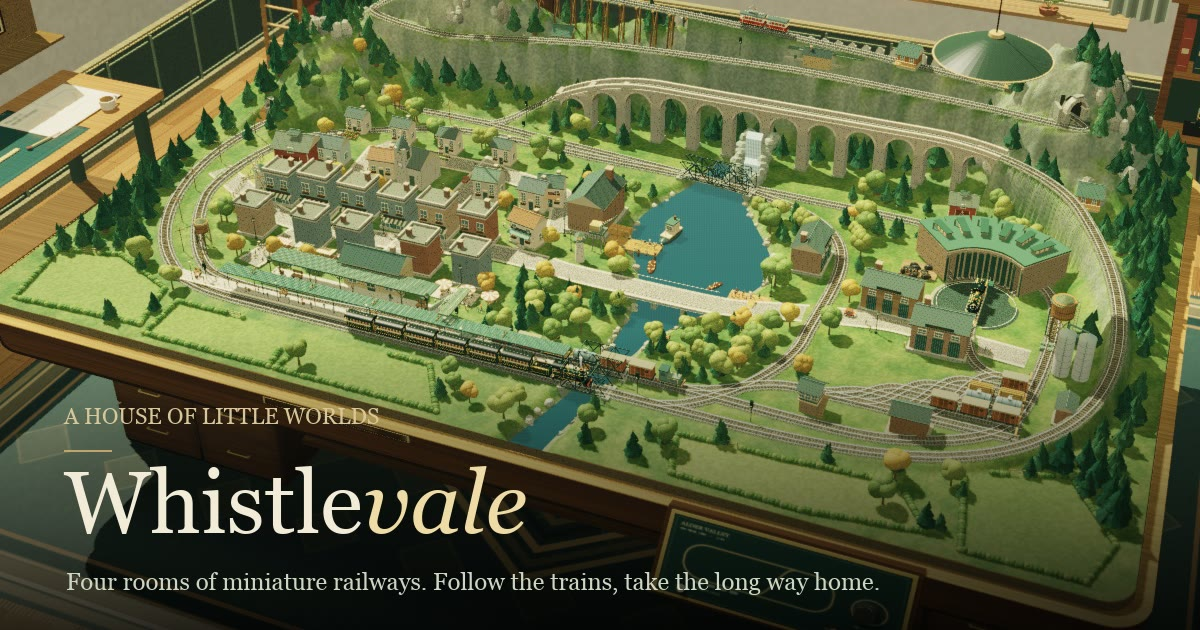
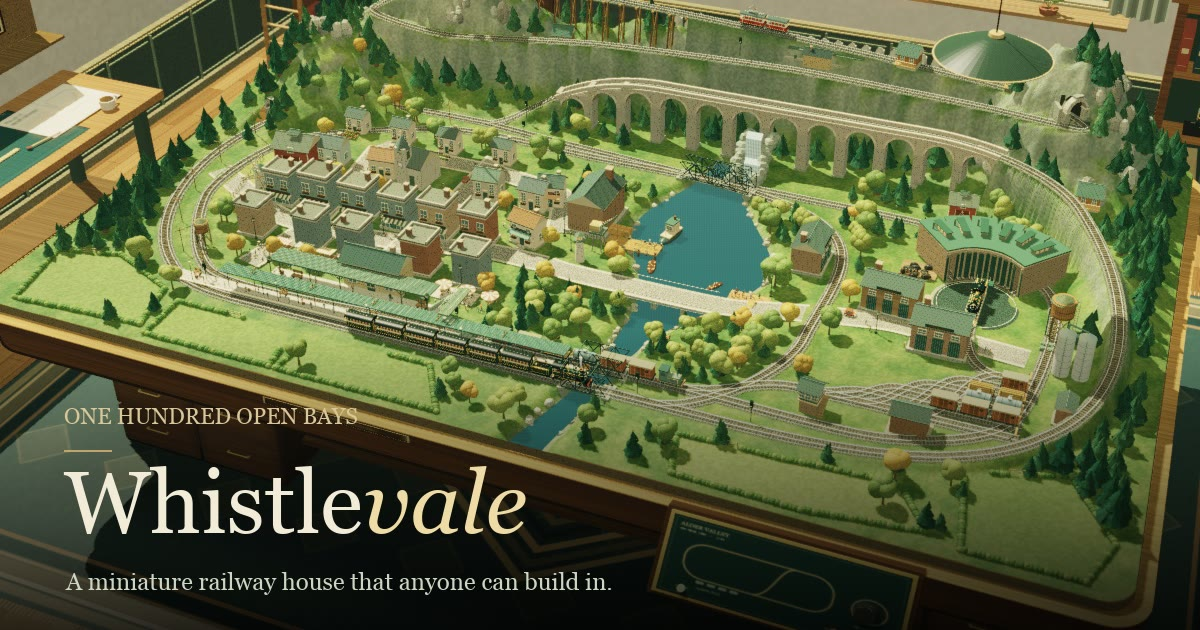
Brand it as a railway anyone can build in
The repository read as somewhere you visit. It is somewhere you build,
and nothing on the landing surfaces said so.

README now opens on the invitation rather than the tour: one hundred open
bays across seven galleries, the bay command, and what a contributor
actually gets — a credit they choose, a plaque, and a named stop on the
slow tour. The Open Workshop's own line carries it: it doesn't have to be
finished.

Both social cards are rebuilt around the same story. "Follow the trains,
take the long way home" was a lovely sentence for a place you look at.
"One hundred open bays / a miniature railway house that anyone can build
in" is the sentence for a place you join. github-social.jpg is sized 1280
x640 for GitHub's preview; social-card.jpg stays 1200x630 for Open Graph.

The page description follows, since a card and a description that
disagree is worse than either alone.

Claude-Session: https://claude.ai/code/session_01NPBWmM1LxMzBcb1a9u5ree

Changed region(s): [[0.0617, 0.9048, 0.74, 0.9349], [0.0617, 0.6333, 0.3083, 0.6937]]

diff --git a/index.html b/index.html
@@ -26,7 +26,7 @@
 @media(max-width:820px){.district-nav{top:128px;left:50%;transform:translateX(-50%);max-width:calc(100% - 28px);width:max-content;overflow:auto;padding:3px;gap:0;border-radius:17px;scrollbar-width:none}.district-nav button{font-size:8px;padding:8px 9px}.district-nav svg{width:13px;height:13px}.layout-panel{top:175px;right:14px;width:280px;max-height:calc(100dvh - 210px)}.layout-panel #map{width:244px;height:157px}.mode-switch{top:78px}.camera-bar{overflow:auto;scrollbar-width:none}.camera-bar button{padding:9px 7px}.view-caption h2{font-size:21px}.view-caption{max-width:78%}.top-actions #lightBtn{display:none}.network-legend{gap:15px}.service-row{padding:11px 0}.service-row b{font-size:14px}.network-metrics{font-size:8px}}
 @media(max-height:550px){.district-nav{top:77px;left:22px;transform:none}.layout-panel{top:70px}.mode-switch{top:16px}}
 
-</style><link rel="stylesheet" href="src/hobby.css"><link rel="stylesheet" href="src/shop-map.css"><meta name="description" content="Step inside Whistlevale, a lovingly detailed hobby house of miniature railways. Explore four rooms, follow the trains, and take the long way home."><link rel="canonical" href="https://whistlevale.com/"><meta property="og:type" content="website"><meta property="og:site_name" content="Whistlevale"><meta property="og:url" content="https://whistlevale.com/"><meta property="og:title" content="Whistlevale · A house of little worlds"><meta property="og:description" content="Step inside Whistlevale, a lovingly detailed hobby house of miniature railways. Explore four rooms, follow the trains, and take the long way home."><meta property="og:image" content="https://whistlevale.com/assets/social-card.jpg"><meta property="og:image:type" content="image/jpeg"><meta property="og:image:width" content="1200"><meta property="og:image:height" content="630"><meta property="og:image:alt" content="A model railway layout seen close up: a steam train with carriages running past a miniature village, a stone viaduct and an engine shed, all built on a table in a hobby room."><meta name="twitter:card" content="summary_large_image"><meta name="twitter:title" content="Whistlevale · A house of little worlds"><meta name="twitter:description" content="Step inside Whistlevale, a lovingly detailed hobby house of miniature railways. Explore four rooms, follow the trains, and take the long way home."><meta name="twitter:image" content="https://whistlevale.com/assets/social-card.jpg"><meta name="twitter:image:alt" content="A model railway layout seen close up: a steam train with carriages running past a miniature village, a stone viaduct and an engine shed, all built on a table in a hobby room."><link rel="icon" type="image/svg+xml" href="assets/favicon.svg"><link rel="stylesheet" href="src/train-cabinet.css">
+</style><link rel="stylesheet" href="src/hobby.css"><link rel="stylesheet" href="src/shop-map.css"><meta name="description" content="Whistlevale is a miniature railway house that anyone can build in. Wander seven galleries, then claim an open exhibition bay and add a scene of your own."><link rel="canonical" href="https://whistlevale.com/"><meta property="og:type" content="website"><meta property="og:site_name" content="Whistlevale"><meta property="og:url" content="https://whistlevale.com/"><meta property="og:title" content="Whistlevale · A house of little worlds"><meta property="og:description" content="Whistlevale is a miniature railway house that anyone can build in. Wander seven galleries, then claim an open exhibition bay and add a scene of your own."><meta property="og:image" content="https://whistlevale.com/assets/social-card.jpg"><meta property="og:image:type" content="image/jpeg"><meta property="og:image:width" content="1200"><meta property="og:image:height" content="630"><meta property="og:image:alt" content="A model railway layout seen close up: a steam train running past a miniature village, a stone viaduct and an engine shed, built on a table in a hobby room."><meta name="twitter:card" content="summary_large_image"><meta name="twitter:title" content="Whistlevale · A house of little worlds"><meta name="twitter:description" content="Whistlevale is a miniature railway house that anyone can build in. Wander seven galleries, then claim an open exhibition bay and add a scene of your own."><meta name="twitter:image" content="https://whistlevale.com/assets/social-card.jpg"><meta name="twitter:image:alt" content="A model railway layout seen close up: a steam train running past a miniature village, a stone viaduct and an engine shed, built on a table in a hobby room."><link rel="icon" type="image/svg+xml" href="assets/favicon.svg"><link rel="stylesheet" href="src/train-cabinet.css">
 </head><body class="quiet-ui">
 <svg style="position:absolute;width:0;height:0;overflow:hidden" aria-hidden="true"><defs>
 <symbol id="i-train" viewBox="0 0 40 40"><path d="M6 27h29M8 25V15h8v10M7 14h11M16 18h15l3 7H16M27 18v-6h4v6M24 18v-3h-3v3M10 18h3v4h-3M4 31h32M7 34l3-3m19 3-3-3"/><circle cx="12" cy="27" r="3"/><circle cx="23" cy="27" r="3"/><circle cx="30" cy="27" r="3"/><path d="M28 8c-4-2 0-5 3-4"/></symbol>
@@ -127,6 +127,10 @@
 <script src="src/rooms/alpine.js"></script>
 <script src="src/rooms/studio.js"></script>
 <script src="src/rooms/commons.js"></script>
+<script src="src/grandhall-data.js"></script>
+<script src="src/grandhall-exhibits.js"></script>
+<script src="src/grandhall-contribute.js"></script>
+<script src="src/rooms/grandhall.js"></script>
 <script src="src/trains.js"></script>
 <script src="src/soundscape.js"></script>
 <script src="src/playlist.js"></script>

diff --git a/README.md b/README.md
@@ -1,18 +1,37 @@
 # Whistlevale
 
-**A house of little worlds.** Wander a miniature railway hobby shop, watch the
-trains, and take the long way round.
+**A miniature railway house that anyone can build in.**
+Wander seven galleries, watch the trains — then claim an empty exhibition bay and
+add something of your own. Your name goes on a plaque beside it, and the house
+walks visitors to it.
 
-[Visit Whistlevale](https://whistlevale.com) · [Contribute](CONTRIBUTING.md) ·
-[Agents start here](AGENTS.md)
+[Visit Whistlevale](https://whistlevale.com) · [Claim a bay](contributions/README.md) ·
+[Contribute](CONTRIBUTING.md) · [Agents start here](AGENTS.md)
 
-Explore the railways of **Alder Valley**, the **Coastal Gallery**, the **Mountain
-Loft**, and the **Makers’ Shop**. **The Commons** has a gentle circuit around an open landscape
-for the community to grow. Choose a train, wander the house, or settle into
-cinema mode. Alder Valley also has a layout editor and shareable exports.
+## One hundred open bays
 
-Built with plain JavaScript and a custom WebGL 2 renderer. No package dependencies,
-account, or API key needed.
+The Grand Exhibition has **one hundred numbered display bays across seven
+galleries**, and almost all of them are empty. Pick one, run `npm run bay -- CC-07`
+for a self-contained brief, and hand it to your coding agent — it will ask what
+*you* want to make before it writes anything.
+
+Contributions are ordinary pull requests: a scene, a building, a train, a livery,
+a poster, a whole room. Every one carries a credit you choose, and every one
+becomes a named stop on the slow tour.
+
+> **The Open Workshop** — *it doesn't have to be finished.*
+
+## The house
+
+Alder Valley, the **Coastal Gallery**, the **Mountain Loft**, the **Makers' Shop**,
+and **The Commons** — a shared landscape with a gentle circuit around it, where
+first contributions go. Choose a train, wander, or settle into slow cinema and let
+the conductor take you round. Alder Valley also has a layout editor with shareable
+exports.
+
+Built with plain JavaScript and a custom WebGL 2 renderer. **No package
+dependencies, no build step for contributors, no account and no API key** — clone
+it and it runs.
 
 ## Run locally
 
@@ -40,10 +59,11 @@ Copilot, or another coding agent, point it at this repository and ask:
 
 [Train recipe](docs/contributing/trains.md) ·
 [Building recipe](docs/contributing/buildings.md) ·
-[Grow The Commons](docs/contributing/commons.md)
+[Grow The Commons](docs/contributing/commons.md) ·
+[Exhibit in the Grand Hall](docs/contributing/grandhall.md)
 
 Larger changes, including whole rooms, start with a proposal. Every contribution
-is reviewed; the repository is currently private while this workflow is prepared.
+is reviewed before publication.
 
 ## More
 
